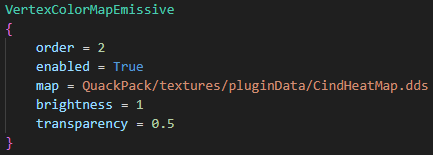
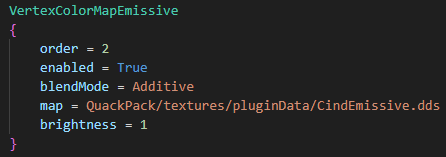
Add new additive blend mode, leave Leave old alpha blend as default for backwards compatibility.  Old alpha blend will be removed in a future update.

diff --git a/VisualStudioProject/VertexColorMapEmissive/VertexColorMapEmissive/VertextColorMapEmissive.cs b/VisualStudioProject/VertexColorMapEmissive/VertexColorMapEmissive/VertextColorMapEmissive.cs
@@ -1,38 +1,54 @@
 using System;
-using System.Collections.Generic;
-using System.Linq;
-using System.Text;
-using System.Threading.Tasks;
 using UnityEngine;
-using Kopernicus.Components;
 using Kopernicus.ConfigParser.Attributes;
 using Kopernicus.ConfigParser.BuiltinTypeParsers;
 using Kopernicus.Configuration.ModLoader;
 using Kopernicus.Configuration.Parsing;
 using Kopernicus.ConfigParser.Enumerations;
 using Kopernicus.ConfigParser.Interfaces;
+using static VertexColorMapEmissive.PQSMod_VertexColorMapEmissive;
 
 namespace VertexColorMapEmissive
 {
     [RequireConfigType(ConfigType.Node)]
     public class VertexColorMapEmissive : ModLoader<PQSMod_VertexColorMapEmissive>, IParserEventSubscriber
     {
+
+        [ParserTarget("blendMode")]
+        public EnumParser<BlendModes> BlendMode
+        {
+            get { return Mod.blendMode; }
+            set
+            {
+                Mod.blendMode = value.Value;
+                if (
+                    Mod.blendMode == BlendModes.Additive)
+                {
+                    Mod.EmissiveMaterial = new Material(Kopernicus.Components.ShaderLoader.GetShader("VertexColorMapEmissive/PQSEmissive"));
+                }
+                else
+                {
+                    Mod.EmissiveMaterial = new Material(Kopernicus.Components.ShaderLoader.GetShader("VertexColorMapEmissive/PQSEmissiveOld"));
+                }
+            }
+        }
+
         [ParserTarget("map")]
         public Texture2DParser EmissiveMap
         {
-            get { return (Texture2D)Mod.EmissiveMaterial.GetTexture("_Map") ; }
+            get { return (Texture2D)Mod.EmissiveMaterial.GetTexture("_Map"); }
             set { Mod.EmissiveMaterial.SetTexture("_Map", value); }
         }
 
         [ParserTarget("brightness")]
-        public NumericParser<Single> PQSbrightness
+        public NumericParser<Single> Brightness
         {
             get { return Mod.EmissiveMaterial.GetFloat("_Brightness"); }
             set { Mod.EmissiveMaterial.SetFloat("_Brightness", value); }
         }
 
         [ParserTarget("transparency")]
-        public NumericParser<Single> PQStransparency
+        public NumericParser<Single> Transparency
         {
             get { return Mod.EmissiveMaterial.GetFloat("_Transparency"); }
             set { Mod.EmissiveMaterial.SetFloat("_Transparency", value); }
@@ -40,9 +56,7 @@ namespace VertexColorMapEmissive
 
         void IParserEventSubscriber.Apply(ConfigNode node)
         {
-            Mod.EmissiveMaterial = new Material(ShaderLoader.GetShader("VertexColorMapEmissive/PQSEmissive"));
-            Mod.EmissiveMaterial.SetFloat("_Brightness", 1f);
-            Mod.EmissiveMaterial.SetFloat("_Transparency", 0.5f);
+            Mod.EmissiveMaterial = new Material(Kopernicus.Components.ShaderLoader.GetShader("VertexColorMapEmissive/PQSEmissiveOld"));
         }
 
         void IParserEventSubscriber.PostApply(ConfigNode node) { }

diff --git a/VisualStudioProject/VertexColorMapEmissive/VertexColorMapEmissive/ScaledSpaceColorMapEmissive.cs b/VisualStudioProject/VertexColorMapEmissive/VertexColorMapEmissive/ScaledSpaceColorMapEmissive.cs
@@ -1,15 +1,10 @@
 
 using System;
-using System.Collections.Generic;
-using System.Linq;
-using System.Text;
-using System.Threading.Tasks;
 using UnityEngine;
 using Kopernicus.ConfigParser.Attributes;
 using Kopernicus.ConfigParser.BuiltinTypeParsers;
 using Kopernicus.ConfigParser.Interfaces;
 using Kopernicus.Configuration.Parsing;
-using Kopernicus.Components;
 
 namespace VertexColorMapEmissive
 {
@@ -18,8 +13,34 @@ namespace VertexColorMapEmissive
     {
         private Material EmissiveMaterial;
 
+        public enum BlendModes
+        {
+            Additive,
+            AlphaBlend,
+        }
+
+        public BlendModes blendMode = BlendModes.AlphaBlend;
+
+        [ParserTarget("blendMode")]
+        public EnumParser<BlendModes> BlendMode
+        {
+            get { return blendMode; }
+            set
+            {
+                blendMode = value.Value;
+                if (blendMode == BlendModes.Additive)
+                {
+                    EmissiveMaterial = new Material(Kopernicus.Components.ShaderLoader.GetShader("VertexColorMapEmissive/ScaledEmissive"));
+                }
+                else
+                {
+                    EmissiveMaterial = new Material(Kopernicus.Components.ShaderLoader.GetShader("VertexColorMapEmissive/ScaledEmissiveOld"));
+                }
+            }
+        }
+
         [ParserTarget("map")]
-        private Texture2DParser map
+        private Texture2DParser Map
         {
             get { return (Texture2D)EmissiveMaterial.GetTexture("_Map"); }
             set { EmissiveMaterial.SetTexture("_Map", value); }
@@ -41,10 +62,7 @@ namespace VertexColorMapEmissive
 
         void IParserEventSubscriber.Apply(ConfigNode node)
         {
-            EmissiveMaterial = new Material(Kopernicus.Components.ShaderLoader.GetShader("VertexColorMapEmissive/ScaledEmissive"));
-            EmissiveMaterial.SetFloat("_Brightness", 1f);
-            EmissiveMaterial.SetFloat("_Transparency", 0.5f);
-
+            EmissiveMaterial = new Material(Kopernicus.Components.ShaderLoader.GetShader("VertexColorMapEmissive/ScaledEmissiveOld"));
             Material sharedMaterial = generatedBody.scaledVersion.GetComponent<Renderer>().sharedMaterial;
             EmissiveMaterial.SetTexture("_Map", sharedMaterial.GetTexture("_MainTex"));
         }

diff --git a/VisualStudioProject/VertexColorMapEmissive/VertexColorMapEmissive/PQSMod_VertexColorMapEmissive.cs b/VisualStudioProject/VertexColorMapEmissive/VertexColorMapEmissive/PQSMod_VertexColorMapEmissive.cs
@@ -1,11 +1,4 @@
-using HarmonyLib;
-using Kopernicus.ShadowMan;
-using System;
-using System.Collections.Generic;
-using System.Linq;
-using System.Reflection;
-using System.Text;
-using System.Threading.Tasks;
+using System;
 using UnityEngine;
 using static PQS;
 
@@ -14,6 +7,14 @@ namespace VertexColorMapEmissive
     public class PQSMod_VertexColorMapEmissive : PQSMod
     {
         public Material EmissiveMaterial;
+
+        public enum BlendModes
+        {
+            Additive,
+            AlphaBlend,
+        }
+
+        public BlendModes blendMode = BlendModes.AlphaBlend;
 
         public override void OnPostSetup()
         {

diff --git a/VisualStudioProject/VertexColorMapEmissive/VertexColorMapEmissive/ShaderInitializer.cs b/VisualStudioProject/VertexColorMapEmissive/VertexColorMapEmissive/ShaderInitializer.cs
@@ -1,8 +1,4 @@
 using System;
-using System.Collections.Generic;
-using System.Linq;
-using System.Text;
-using System.Threading.Tasks;
 using UnityEngine;
 using Kopernicus.Components;
 

diff --git a/README.md b/README.md
@@ -10,13 +10,13 @@ VertexColorMapEmissive is a custom PQS Mod intended for use by planet modders to
 ## Reasoning behind creation:
 * Qualities I believe an emissive mod should have
   * It should cover ScaledSpace, PQS, and Ocean emissives with a single unified and coherent format.
-  * It should allow the use of a full color texture with transparency.
+  * It should allow the use of a full color texture.
   * it should not have visual artifacts with stock ScaledSpace, PQS, or Oceans.
 
 ## Features and comparison to alternatives:
 * VertexColorMapEmissive
   * Pros
-    * Full RGBA colormap support
+    * Full RGB(A) colormap support
     * Unified solution for ScaledSpace, PQS, and Ocean emissives
     * No ocean z-fighting
   * Cons
@@ -38,11 +38,16 @@ VertexColorMapEmissive is a custom PQS Mod intended for use by planet modders to
     * Does not support Ocean emissives
 
 ## Parameters and expected values:
-* map: The RGBA texture to use as the emissive map
-* brightness: global multiplier to the color channels of the map
+* blendMode: controls how the emissive texture is blended with the existing planet color
+  * Additive: Directly add the emissive texture color values to the color values of the existing texture.
+  * AlphaBlend: (legacy, default) Blend between the emissive texture color and the existing texture color, weighted by the emissive texture alpha chanel and the transparency value.  Will be removed in a future update.
+* map: The texture to use as the emissive map. Recommended formats:
+  * blendMode - Additive: dxt1 (no alpha channel, smaller file size)
+  * blendMode - AlphaBlend: dxt5 (has alpha channel, larger file size)
+* brightness: global multiplier to the color channels of the map. Optional.
   * default value: 1
   * values greater 1 increase brightness, values less than 1 decrease brightness
-* transparency: global multiplier to the alpha channel of the map
+* transparency: (legacy) global multiplier to the alpha channel of the map. Optional, use only with blendMode - AlphaBlend.  Will be removed in a future update.
   * default value: 0.5
   * values greater 1 decrease transparency, values less than 1 increase transparency
 
@@ -59,18 +64,16 @@ VertexColorMapEmissive is a custom PQS Mod intended for use by planet modders to
   ![PQS](ExampleImages/PQSEmissive.png)
 
 ## Requirements
-* [ModuleManager](https://forum.kerbalspaceprogram.com/index.php?/topic/50533-18x-112x-module-manager-422-june-18th-2022-the-heatwave-edition/)
-* [Kopernicus](https://forum.kerbalspaceprogram.com/index.php?/topic/200143-180-1123-kopernicus-stable-branch-last-updated-august-12th-2022/)
+* [ModuleManager](https://forum.kerbalspaceprogram.com/topic/50533-18x-112x-module-manager-423-july-03th-2023-fireworks-season/)
+* [Kopernicus](https://forum.kerbalspaceprogram.com/topic/200143-112x-kopernicus-stable-branch-last-updated-may-8th-2025/)
 
 ## FAQ
 * Q. I'm not a planet modder? Do I need this?
 * A. You do not need to install it manually yourself, but if you found this in your GameData, it is because a planet pack you have/had needs/needed it and so it was either included with the mod or auto installed through CKAN
-* Q. Is this compatible with Parallax?
-* A. In all honesty, I have never downloaded Parallax before, so I do not know.
+* Q. Is this compatible with Parallax Continued?
+* A. No, VertexColorMapEmissive is not compatible with Parallax Continued, which includes its own method of handling terrain emissives.
 * Q. Is this compatible with Scatterer oceans?
 * A. No, it will not function with Scatterer oceans, only stock oceans.
 
 ## Licensing
 * VertexColorMapEmissive is licensed under the MIT License
-
-
